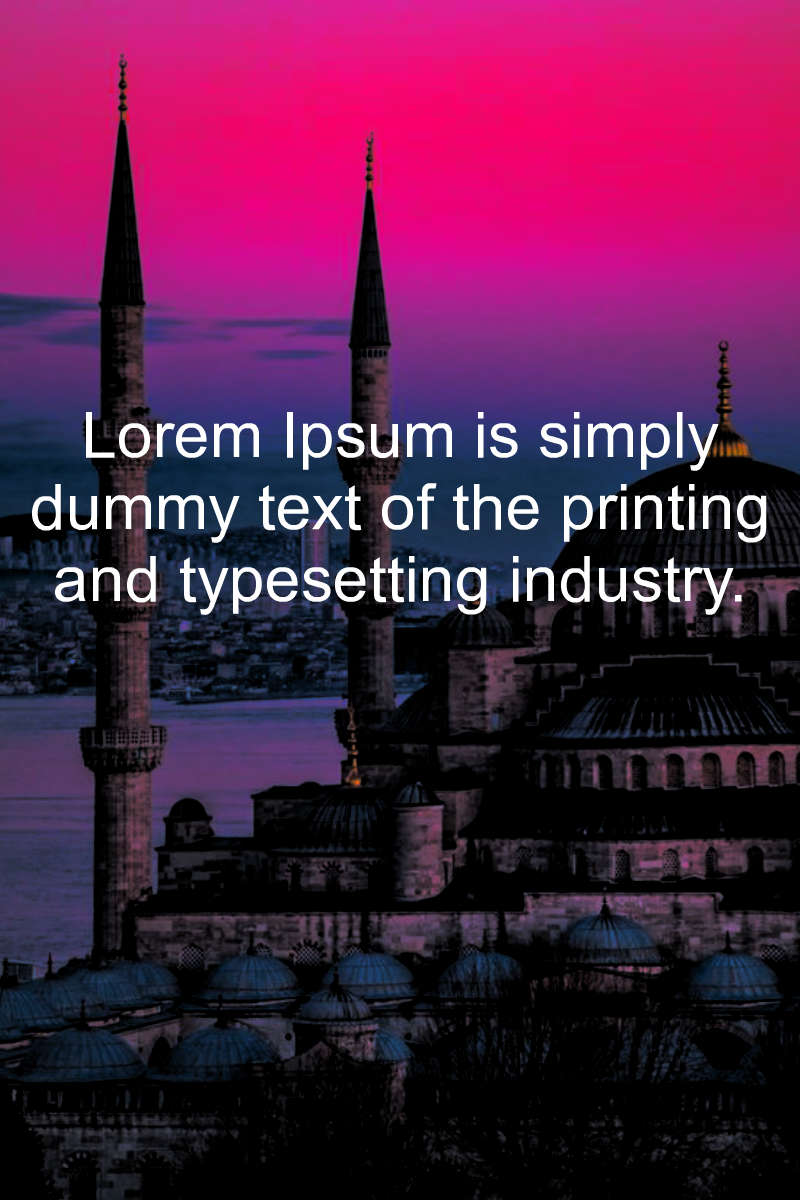
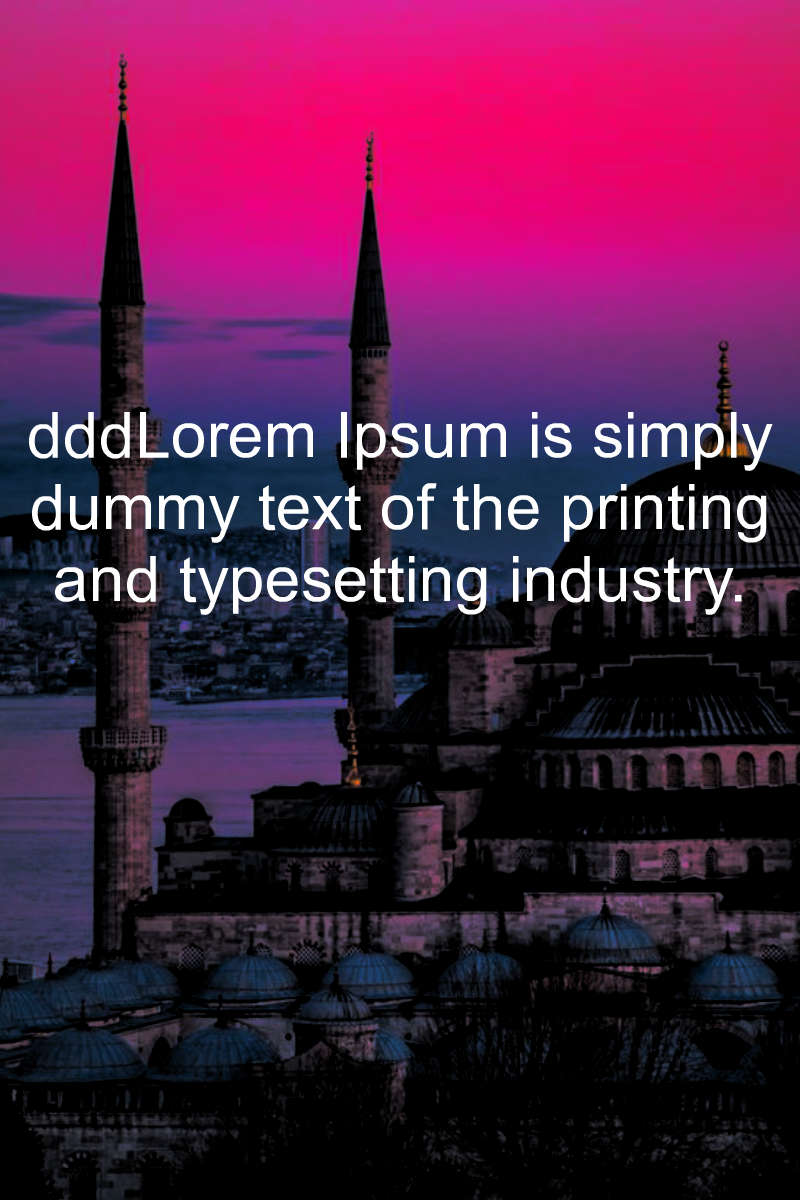
refactor

Changed region(s): [[0.0312, 0.3392, 0.9688, 0.4008]]

diff --git a/index.js b/index.js
@@ -21,16 +21,21 @@ const main = async () => {
           400,
           {
             text:
-              "Lorem Ipsum is simply dummy text of the printing and typesetting industry.",
+              "dddLorem Ipsum is simply dummy text of the printing and typesetting industry.",
             alignmentX: Jimp.HORIZONTAL_ALIGN_CENTER,
           },
           W,
           H
         );
 
-        image.getBuffer(Jimp.MIME_JPEG, (err, buffer) => {
+        image.getBuffer(Jimp.MIME_JPEG, (error, result) => {
           image.write(DIR + FILENAME);
-          console.log("image uploaded: " + DIR + FILENAME);
+
+          if (!error) {
+            console.log("Resim yüklendi.");
+          } else {
+            console.warn("hata");
+          }
         });
 
         /*image.getBase64(Jimp.AUTO, function(err, data) {  // Add err
@@ -45,7 +50,7 @@ const main = async () => {
 
 main()
   .then((image) => {
-    (image) => image.write(FILENAME);
+    //image.write(FILENAME);
   })
   .catch((err) => {
     // Handle an exception.
